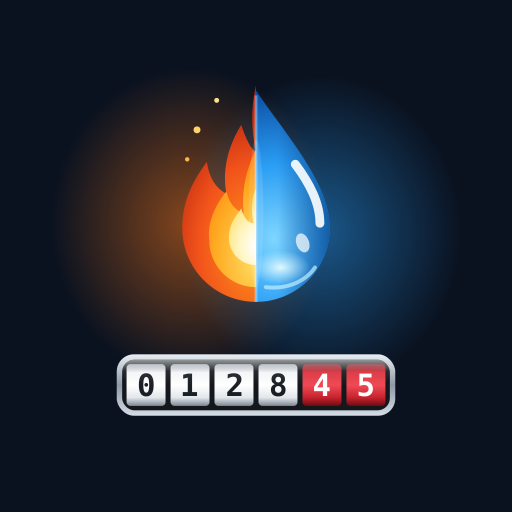
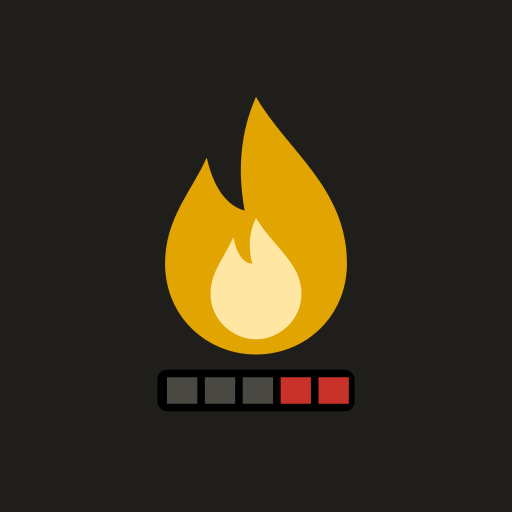
Volta o app instalável para Leitura de Gás (ícone original)

diff --git a/index.html b/index.html
@@ -3,26 +3,26 @@
 <head>
 <meta charset="utf-8">
 <meta name="viewport" content="width=device-width, initial-scale=1, viewport-fit=cover">
-<title>Gás e Água</title>
-<meta name="description" content="Leitura mensal do gás e rateio da conta de água do Residencial Maria Angélica.">
-<meta name="theme-color" content="#0b3a57">
+<title>Leitura Gás</title>
+<meta name="description" content="Lançamento mensal da leitura do relógio de gás do Residencial Maria Angélica.">
+<meta name="theme-color" content="#1f1e1a">
 <link rel="manifest" href="manifest.webmanifest">
 <link rel="icon" href="favicon.png" type="image/png">
 <link rel="apple-touch-icon" href="apple-touch-icon.png">
 <meta name="apple-mobile-web-app-capable" content="yes">
-<meta name="apple-mobile-web-app-title" content="Gás e Água">
+<meta name="apple-mobile-web-app-title" content="Leitura Gás">
   <script src="https://cdn.onesignal.com/sdks/web/v16/OneSignalSDK.page.js" defer></script>
   <script>window.OneSignalDeferred=window.OneSignalDeferred||[];OneSignalDeferred.push(async function(OneSignal){await OneSignal.init({appId:"13bf22e3-107c-4d24-b0da-5bfbc380acdc",serviceWorkerPath:"leitura-gas/sw.js",serviceWorkerUpdaterPath:"leitura-gas/sw.js",serviceWorkerParam:{scope:"/leitura-gas/"}});});</script>
 <style>
-  :root{--bg:#0a1220;--fg:#f2f8fc;--muted:#a9c6d8;--accent:#f2b01e;--ink:#2a1d00}
+  :root{--bg:#1f1e1a;--fg:#f4f2ea;--muted:#bdb8aa;--accent:#e2a400;--ink:#2a2100}
   *{box-sizing:border-box}
-  html,body{margin:0;height:100%;background:#eef3f6;font-family:system-ui,-apple-system,"Segoe UI",sans-serif}
-  #app{position:fixed;inset:0;width:100%;height:100%;border:0;display:block;background:#eef3f6}
+  html,body{margin:0;height:100%;background:#f6f5f1;font-family:system-ui,-apple-system,"Segoe UI",sans-serif}
+  #app{position:fixed;inset:0;width:100%;height:100%;border:0;display:block;background:#f6f5f1}
   #abertura{position:fixed;inset:0;z-index:5;background:var(--bg);color:var(--fg);display:flex;flex-direction:column;align-items:center;justify-content:center;gap:18px;transition:opacity .35s}
   #abertura img{width:96px;height:96px}
   #abertura h1{margin:0;font-size:1.25rem;font-weight:700}
   #abertura p{margin:0;color:var(--muted);font-size:.9rem;text-align:center;padding:0 24px}
-  .gira{width:22px;height:22px;border:3px solid #1d5a80;border-top-color:var(--accent);border-radius:50%;animation:g 0.9s linear infinite}
+  .gira{width:22px;height:22px;border:3px solid #3a3833;border-top-color:var(--accent);border-radius:50%;animation:g 0.9s linear infinite}
   @keyframes g{to{transform:rotate(360deg)}}
   @media (prefers-reduced-motion:reduce){.gira{animation:none}#abertura{transition:none}}
   #abertura.some{opacity:0;pointer-events:none}
@@ -37,12 +37,12 @@
 </style>
 </head>
 <body>
-<iframe id="app" title="Leitura de Gás e Água" allow="clipboard-write; fullscreen"
+<iframe id="app" title="Leitura de Gás" allow="clipboard-write; fullscreen"
   src="https://script.google.com/macros/s/AKfycbxgBOSS1P28BbAguKn8oHrk-C91yU117M8oS1F3EvRrp-3MfltVxxOZyskfi1vHfmVR/exec"></iframe>
 
 <div id="abertura" role="status">
   <img src="icon-192.png" alt="">
-  <h1>Leitura de Gás e Água</h1>
+  <h1>Leitura de Gás</h1>
   <p id="aberturaMsg">Residencial Maria Angélica</p>
   <div class="gira" aria-hidden="true"></div>
 </div>
@@ -60,7 +60,7 @@
   const ab=$("abertura");
   function esconderAbertura(){ab.classList.add("some");setTimeout(()=>ab.hidden=true,400);}
   $("app").addEventListener("load",()=>setTimeout(esconderAbertura,300));
-  setTimeout(()=>{ if(!ab.hidden){ $("aberturaMsg").textContent = navigator.onLine ? "Carregando… a primeira abertura pode levar alguns segundos." : "Sem internet. Conecte-se para abrir o app."; } }, 6000);
+  setTimeout(()=>{ if(!ab.hidden){ $("aberturaMsg").textContent = navigator.onLine ? "Carregando… a primeira abertura pode levar alguns segundos." : "Sem internet. Conecte-se para lançar a leitura."; } }, 6000);
   setTimeout(esconderAbertura, 15000);
 
   // service worker: permite instalar e abre a casca mais rápido

diff --git a/sw.js b/sw.js
@@ -1,6 +1,6 @@
 importScripts('https://cdn.onesignal.com/sdks/web/v16/OneSignalSDK.sw.js'); // notificações (OneSignal)
 // Guarda só a "casca" do app (esta página e os ícones). Os dados vêm sempre do Google.
-const CACHE = 'leitura-gas-v4';
+const CACHE = 'leitura-gas-v5';
 const CASCA = ['./', './index.html', './manifest.webmanifest', './icon-192.png', './icon-512.png', './favicon.png'];
 self.addEventListener('install', e => { e.waitUntil(caches.open(CACHE).then(c => c.addAll(CASCA))); self.skipWaiting(); });
 self.addEventListener('activate', e => { e.waitUntil(caches.keys().then(ks => Promise.all(ks.filter(k => k !== CACHE).map(k => caches.delete(k))))); self.clients.claim(); });
